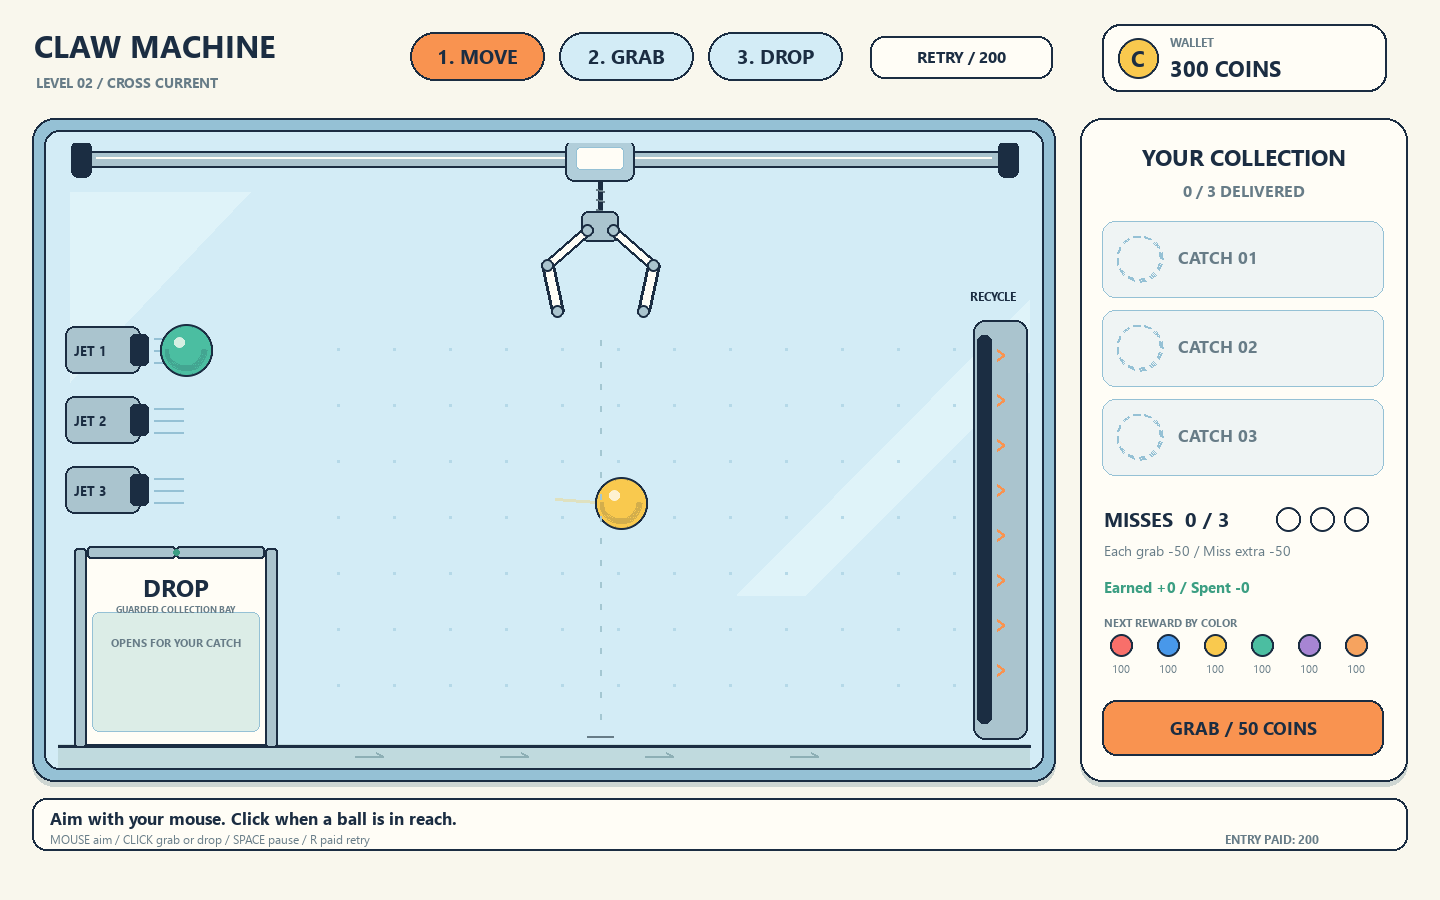
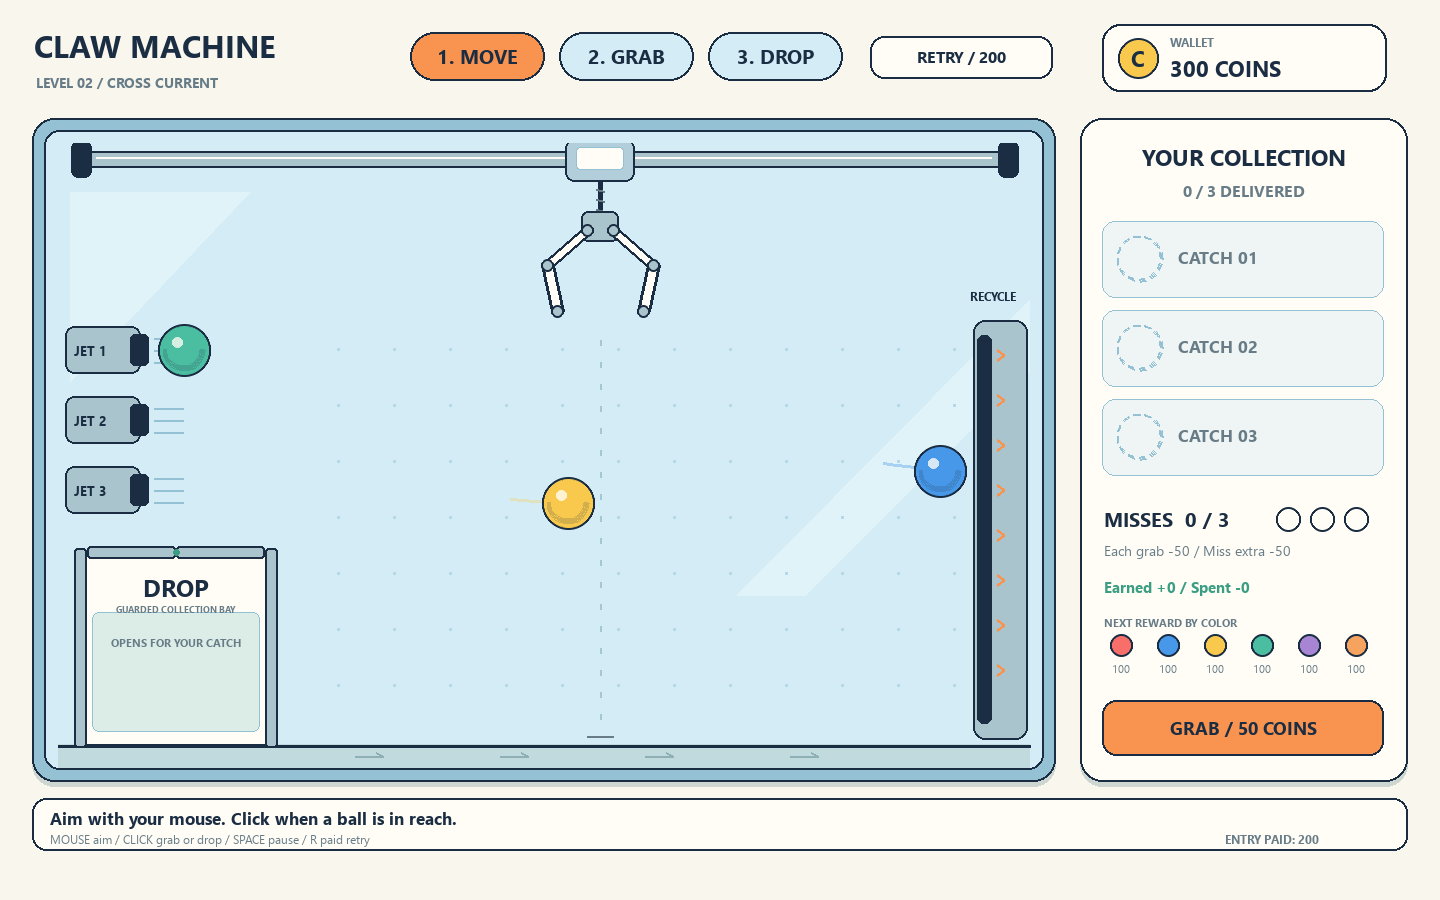
Ease level two and secure supported catches with 200-coin repeat rewards

Changed region(s): [[0.375, 0.5289, 0.4688, 0.5911], [0.625, 0.4978, 0.6875, 0.56], [0.0938, 0.3733, 0.1562, 0.4044]]

diff --git a/model.py b/model.py
@@ -215,8 +215,8 @@ class Game:
         tip_gap = 2 * (43 - 35 * self.close_amount - FINGER_RADIUS)
         return (
             ball.mode == "free" and ball.kind == "ball" and self.close_amount >= 0.35
-            and abs(dx) <= ball.radius * 0.65
-            and 40 <= dy <= 73
+            and abs(dx) <= ball.radius * 0.75
+            and 36 <= dy <= 75
             and self.claw_y + 81 > ball.y + ball.radius * 0.25
             and tip_gap < ball.radius * 1.85
             and self.finger_contact(ball, -1) and self.finger_contact(ball, 1)
@@ -274,16 +274,6 @@ class Game:
                     self.message = "Empty grip. Returning to the rail."
         elif self.state == State.LIFT:
             self.claw_y = max(REST_Y, self.claw_y - 310 * dt)
-            if self.claw_y <= REST_Y:
-                if self.held_id is not None:
-                    self.set_state(State.CARRY)
-                    self.target_x = self.claw_x
-                    self.message = "Caught! Move LEFT to DROP, then click to release."
-                else:
-                    self.misses += 1
-                    self.events.append(("miss", None))
-                    self.set_state(State.LOST if self.misses == 3 else State.MOVE)
-                    self.message = "Three empty grabs. Try a new round." if self.terminal else "Missed this time. Aim ahead of a moving ball."
         elif self.state == State.DROP:
             self.close_amount = approach(self.close_amount, 0, dt * 5)
 
@@ -322,8 +312,9 @@ class Game:
                 b.x = clamp(b.x, LEFT + b.radius, RIGHT - b.radius)
                 b.y = clamp(b.y, CEILING + b.radius, FLOOR - b.radius)
 
-        if self.state == State.CLOSE and self.held_id is None:
+        if self.state in (State.CLOSE, State.LIFT) and self.held_id is None:
             # Evaluate actual opposing contacts before resolving penetrations.
+            # A supported ball may settle into a valid grip during the lift.
             for b in free:
                 if self._secure(b):
                     break
@@ -335,6 +326,19 @@ class Game:
                     points = self.jaw_points(side)
                     self._finger_collision(b, points[0], points[1])
                     self._finger_collision(b, points[1], points[2])
+
+        # Resolve the top arrival after checking contacts, including this last
+        # lift step. A confirmed hold remains locked until an authorized DROP.
+        if self.state == State.LIFT and self.claw_y <= REST_Y:
+            if self.held_id is not None:
+                self.set_state(State.CARRY)
+                self.target_x = self.claw_x
+                self.message = "Caught! Move LEFT to DROP, then click to release."
+            else:
+                self.misses += 1
+                self.events.append(("miss", None))
+                self.set_state(State.LOST if self.misses == 3 else State.MOVE)
+                self.message = "Three empty grabs. Try a new round." if self.terminal else "Missed this time. Aim ahead of a moving ball."
         for b in free:
             if int(self.clock * 120) % 4 == 0:
                 b.trail.append((b.x, b.y))
@@ -352,7 +356,7 @@ class Game:
         lane = self.spawn_count % 3
         # Every fourth launch is a bullet; regular balls always remain available.
         bullet = self.level == 3 and self.spawn_count % 4 == 3
-        speed = self.rng.uniform(360, 430) if self.level == 2 else self.rng.uniform(540, 640)
+        speed = self.rng.uniform(320, 380) if self.level == 2 else self.rng.uniform(540, 640)
         self.balls.append(Ball(
             1000 + self.spawn_count, 166, self.jet_heights[lane],
             vx=speed + (140 if bullet else 0),

diff --git a/test_campaign.py b/test_campaign.py
@@ -76,18 +76,28 @@ class EconomyTests(unittest.TestCase):
         a.request_start()
         for i in range(3):
             deliver(a, identity=100+i)
-        self.assertEqual(a.round_rewards, [100, 150, 200])
-        self.assertEqual(a.progress.coins, 600)
+        self.assertEqual(a.round_rewards, [100, 200, 200])
+        self.assertEqual(a.progress.coins, 650)
         self.assertEqual(a.progress.unlocked, 2)
         self.assertEqual(a.screen, 'result')
         a.update(20)
-        self.assertEqual(a.progress.coins, 600)
+        self.assertEqual(a.progress.coins, 650)
         a.request_start(2)
-        self.assertEqual(a.progress.coins, 400)
+        self.assertEqual(a.progress.coins, 450)
         self.assertEqual(a.game.balls, [])
         deliver(a)
-        self.assertEqual(a.round_rewards, [250])
+        self.assertEqual(a.round_rewards, [200])
         self.assertEqual(a.progress.coins, 600)
+
+    def test_different_color_keeps_its_first_reward(self):
+        a = Campaign(seed=7)
+        a.request_start()
+        for identity, color in enumerate((0, 0, 1), 100):
+            deliver(a, color=color, identity=identity)
+        self.assertEqual(a.round_rewards, [100, 200, 100])
+        self.assertEqual(a.next_reward(0), 200)
+        self.assertEqual(a.next_reward(1), 200)
+        self.assertEqual(a.next_reward(2), 100)
 
     def test_each_empty_attempt_deducts_once_and_three_end_the_round(self):
         a = Campaign(seed=7)
@@ -184,7 +194,7 @@ class EconomyTests(unittest.TestCase):
             self.assertEqual(a.game.state, State.WON)
         self.assertEqual(a.progress.cleared, [True]*3)
         self.assertEqual(a.progress.colors[0], 9)
-        self.assertEqual(a.progress.coins, 2150)
+        self.assertEqual(a.progress.coins, 1150)
         before = copy.deepcopy(a.progress)
         a.ask_reset()
         a.cancel()
@@ -265,14 +275,14 @@ class StreamTests(unittest.TestCase):
                     self.assertTrue(g.grip_confirmed)
             self.assertEqual(outcomes, [State.CARRY, State.MOVE])
 
-    def test_fast_streams_cross_the_cabinet_in_about_two_seconds_or_less(self):
-        for level, low, high in ((2, 360, 430), (3, 540, 640)):
+    def test_level_two_is_moderate_and_level_three_stays_fast(self):
+        for level, low, high in ((2, 320, 380), (3, 540, 640)):
             g = Game(7, level)
             g._spawn_stream(1)
             ball = g.balls[0]
             self.assertGreaterEqual(ball.vx, low)
             self.assertLessEqual(ball.vx, high)
-            self.assertLess((972-ball.x)/ball.vx, 2.25)
+            self.assertLess((972-ball.x)/ball.vx, 2.6)
             identity = ball.id
             for _ in range(120*3):
                 g.update(FIXED_DT)

diff --git a/test_game.py b/test_game.py
@@ -52,6 +52,53 @@ class GripTests(unittest.TestCase):
         self.g.close_amount = 0
         self.assertFalse(self.g._secure(Ball(100, 500, 563)))
 
+    def test_supported_ball_can_lock_on_last_lift_step_and_stay_held_at_top(self):
+        g = Game(11)
+        g.claw_x = g.target_x = 500
+        g.claw_y = REST_Y + 2.5
+        g.close_amount = 1
+        g.set_state(State.LIFT)
+        ball = Ball(100, 500, g.claw_y+37, vy=-310)
+        g.balls = [ball]
+        self.assertTrue(g.finger_contact(ball, -1))
+        self.assertTrue(g.finger_contact(ball, 1))
+        g.update(FIXED_DT)
+        self.assertEqual(g.state, State.CARRY)
+        self.assertIs(g.held_ball, ball)
+        self.assertEqual(g.misses, 0)
+        for x in (900, BIN_CENTER, 700, BIN_CENTER):
+            g.aim(x)
+            advance_until(g, lambda: abs(g.claw_x-x)<.1)
+            self.assertEqual(ball.mode, 'held')
+            self.assertAlmostEqual(ball.y-g.claw_y, g.held_offset[1])
+        for _ in range(120*5):
+            g.update(FIXED_DT)
+        self.assertEqual(g.state, State.CARRY)
+        self.assertIs(g.held_ball, ball)
+
+    def test_lifting_does_not_lock_single_finger_contacts_or_bullets(self):
+        for dx, kind in ((38, 'ball'), (0, 'bullet')):
+            g = Game(11)
+            g.claw_x, g.claw_y = 500, 500
+            g.close_amount = .62
+            g.set_state(State.LIFT)
+            g.balls = [Ball(100, 500+dx, 563, kind=kind)]
+            g.update(FIXED_DT)
+            self.assertIsNone(g.held_id)
+
+    def test_real_round_supported_ball_is_secured_during_lift(self):
+        # This replay previously lifted a two-finger-supported free ball, then
+        # returned empty because its center stayed just outside the old pocket.
+        g = Game(11)
+        g.aim(830)
+        for _ in range(round(1.6/FIXED_DT)):
+            g.update(FIXED_DT)
+        g.action()
+        advance_until(g, lambda: g.state in (State.CARRY, State.MOVE))
+        self.assertEqual(g.state, State.CARRY)
+        self.assertTrue(g.grip_confirmed)
+        self.assertEqual(g.misses, 0)
+
     def test_real_round_can_produce_successes_and_misses(self):
         results = []
         for x in (350, 430, 590, 900):

diff --git a/app_view.py b/app_view.py
@@ -161,7 +161,7 @@ class AppView(View):
         self.button('help', 'HOW TO PLAY', (597, 573, 246, 45), BLUE, size=20)
         self.text('Collect 3 to win. 3 misses end the round.', 720, 630, 20, bold=True, center=True)
         if enough:
-            self.text('Each grab: -50  /  Empty grab: extra -50  /  Same color: higher rewards', 720, 659, 14, MUTED, center=True)
+            self.text('Each grab: -50 / Empty grab: extra -50 / New color: +100 / Same color: +200', 720, 659, 14, MUTED, center=True)
         else:
             self.text('Need 250 coins: 200 entry + 50 first grab. RESET ALL to start over.', 720, 659, 14, RED, True, True)
 
@@ -221,7 +221,7 @@ class AppView(View):
         for i in range(6):
             x = 1121+i*47
             self.circle(x, 645, 9, PALETTE[i][1])
-            self.text(str(100+50*a.progress.colors[i]), x, 661, 11, MUTED, center=True)
+            self.text(str(a.next_reward(i)), x, 661, 11, MUTED, center=True)
         if g.paused:
             label, enabled = 'PAUSED', False
         elif g.state == State.MOVE:
@@ -284,7 +284,7 @@ class AppView(View):
             ('02 / GRAB', 'Click to lower the claw. Both fingers must touch a ball to hold it.'),
             ('03 / DROP', 'Carry LEFT above the short bay. Click to open the hatch and deliver.'),
             ('COINS', 'Start with 500. Entry / retry: 200. Every grab: 50. Empty grab: extra 50.'),
-            ('COLOR BONUS', 'Each color pays 100, then 150, then 200, increasing by 50 each time.'),
+            ('COLOR BONUS', 'First delivery of a color: +100. Every later ball of that color: +200.'),
             ('PROGRESS', 'Deliver 3 to clear a level. Make 3 empty grabs and the round ends.'),
             ('RESET ALL', 'Need 250 for entry + first grab, or 50 to grab mid-round. Reset if short.'),
         ]

diff --git a/campaign.py b/campaign.py
@@ -186,6 +186,9 @@ class Campaign:
         self.screen = 'menu'
         self.save()
 
+    def next_reward(self, color):
+        return 100 if self.progress.colors[color] == 0 else 200
+
     def update(self, elapsed):
         if self.screen != 'play':
             return
@@ -196,7 +199,7 @@ class Campaign:
         changed = False
         for kind, color in g.events:
             if kind == 'delivery':
-                reward = 100 + 50 * self.progress.colors[color]
+                reward = self.next_reward(color)
                 self.progress.colors[color] += 1
                 self.progress.coins += reward
                 self.round_earnings += reward

diff --git a/README.md b/README.md
@@ -72,8 +72,7 @@ each delivered ball and the remaining room for mistakes.
 | Every valid lowering | -50, paid when the claw starts descending |
 | Empty grab | An additional -50, stopping at zero |
 | First delivered ball of each color | +100 |
-| Second / third ball of that color | +150 / +200 |
-| Each further ball of that color | Previous reward +50 |
+| Every later delivered ball of that color | +200 each |
 
 The color totals persist across levels and retries. A hold earns nothing until
 the ball reaches the left tray. The right panel shows the wallet, collected balls,
@@ -82,8 +81,8 @@ and net earnings. Best earnings mean gross rewards in a completed round.
 
 1. **AIR JET:** the original filled cabinet, with a right-side upward air jet.
 2. **CROSS CURRENT:** an initially empty cabinet. Three left jets launch balls
-   at 360–430 pixels/second toward a right-side recycler (about twice as fast
-   as before). Catch in transit and carry LEFT to score.
+   at 320–380 pixels/second toward a right-side recycler. This is about 11%
+   slower than the previous 360–430 range. Catch in transit and carry LEFT to score.
 3. **FAST & FURIOUS:** 540–640 pixels/second launches, changed jet angles/heights and occasional
    capsule-shaped bullets. Bullets cannot be held; a failed attempt is an empty
    grab. A mandatory illustrated explanation appears before every Level 3 entry.
@@ -130,6 +129,9 @@ inside the pocket, touch both opposing lower fingers, and have the closing tips
 below its centre with a gap narrow enough to retain it. Only then is a kinematic
 hold constraint created. The ball's current offset is retained rather than
 teleporting a distant ball into the claw. The hold remains stable during carry.
+The pocket has a small position tolerance. Both-finger contacts are checked while
+closing and lifting, including the final step at the rail, so a supported ball
+can settle into a secure hold instead of being declared empty at the top.
 
 The **short** left bay leaves the entire overhead transport corridor open. Its
 hatch opens for a verified delivery. An admission filter keeps ordinary free

diff --git a/PROCESS.md b/PROCESS.md
@@ -75,6 +75,26 @@ Fill in after that real session (no participant name needed):
 
 ## Development history
 
+### Small difficulty adjustment, stable lifting and same-color reward — 29 October 2026
+
+The student reported that Level 2 had become slightly too difficult and that
+some balls appeared to reach the top with the claw before falling. Level 2
+launches were reduced from 360–430 to 320–380 pixels/second (about 11%).
+
+Inspection found that only the closing phase could confirm a grip. Simulated
+trials also found balls touching both lower fingers during lifting with their
+centers about 37 pixels below the claw, just outside the former 40-pixel cutoff.
+The valid pocket was widened slightly (36–75 vertical pixels and 0.75 ball radii
+laterally). Real opposing contacts can now confirm a hold during lifting, and
+top-arrival success/miss is resolved after the final contact check. A regression
+test follows the last-step capture through repeated movement and a five-second
+wait at the rail. One-finger contacts and bullets remain uncatchable.
+
+The student also requested 200 coins for the same color. Each color's first
+delivery pays 100, and all subsequent deliveries of that color pay 200 each.
+This replaces the earlier increasing 100/150/200/... schedule. Existing saved
+color counts remain valid and inform the next reward; balances are not recalculated.
+
 ### Faster streams and paid lowering
 
 The student reported that Levels 2 and 3 felt slower and easier than Level 1.

diff --git a/VALIDATION.md b/VALIDATION.md
@@ -1,5 +1,21 @@
 # Validation record — 24 October 2026
 
+## Fine tuning — 29 October 2026
+
+All **41 automated checks passed** after the small Level 2 speed reduction,
+lifting-contact fix and repeated-color reward change. New regressions verify
+that a ball touching both fingers on the final lift step locks, stays held
+during carriage movement and a five-second wait, while one-finger contacts and
+bullets never lock. A separate reward check verifies that each new color still
+pays 100 while subsequent same-color deliveries pay 200, including across levels.
+A natural full-round replay now secures a formerly rejected supported ball.
+Five before/after replays that previously returned empty now reach a confirmed
+carry, using real physics and identical aim/timing rather than a forced attachment.
+
+Level 2 uses 320–380 pixels/second (about 11% slower than the preceding version).
+The original controller/input and Windows-font checks also passed. Real
+participant validation of subjective difficulty is still pending.
+
 ## Faster streams and lowering fees
 
 The latest revision passes **37 automated checks**. Three new checks cover a
